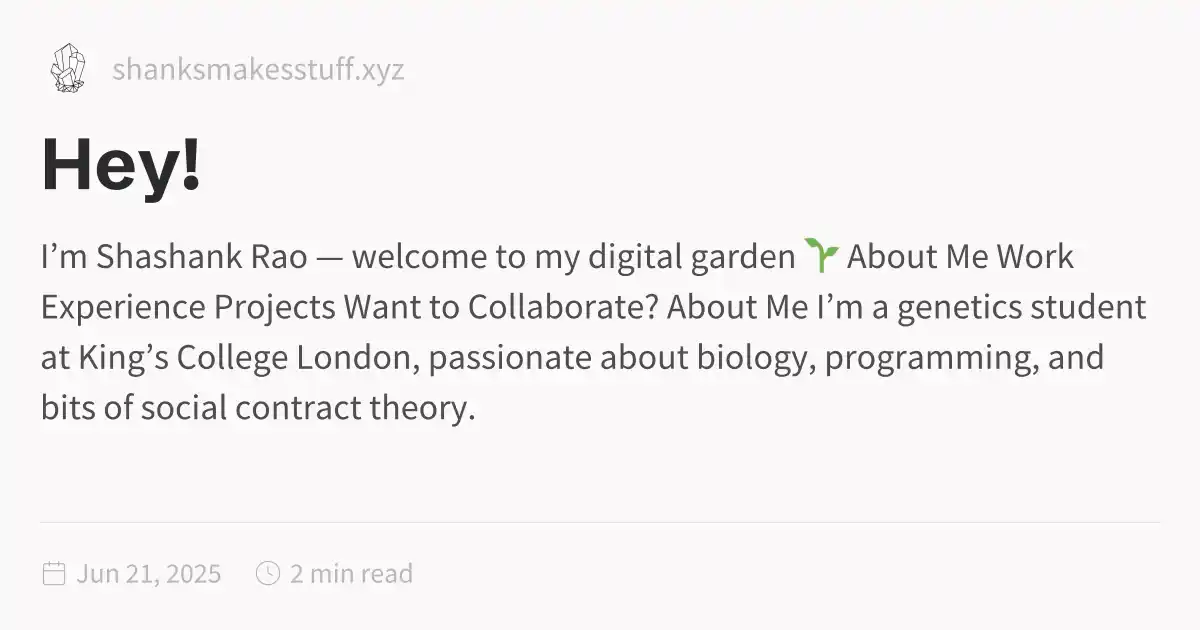
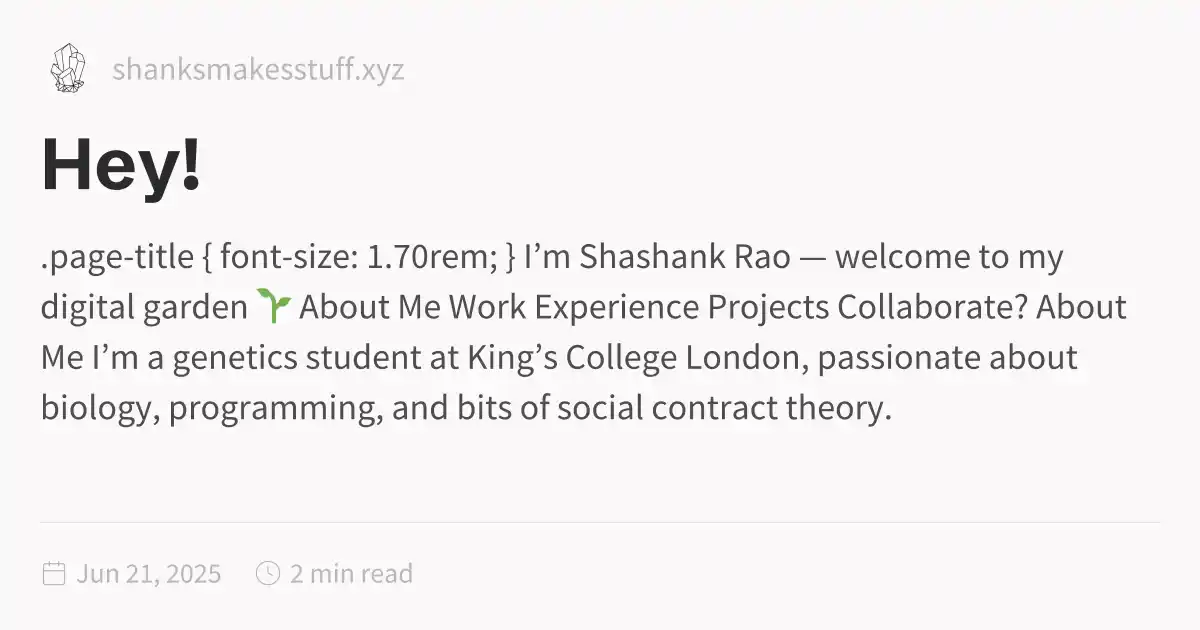
2025-06-21_1209

Changed region(s): [[0.0308, 0.3619, 0.9558, 0.5127], [0.0308, 0.5429, 0.925, 0.6032], [0.0617, 0.6333, 0.74, 0.6937]]

diff --git a/Hey!.html b/Hey!.html
@@ -1,5 +1,5 @@
 <!DOCTYPE html>
-<html lang="en"><head><title>Hey!</title><meta charset="utf-8"/><link rel="preconnect" href="https://fonts.googleapis.com"/><link rel="preconnect" href="https://fonts.gstatic.com"/><link rel="stylesheet" href="https://fonts.googleapis.com/css2?family=Schibsted Grotesk:wght@400;700&amp;family=Source Sans Pro:ital,wght@0,400;0,600;1,400;1,600&amp;family=IBM Plex Mono:wght@400;600&amp;display=swap"/><link rel="preconnect" href="https://cdnjs.cloudflare.com" crossorigin="anonymous"/><meta name="viewport" content="width=device-width, initial-scale=1.0"/><meta name="og:site_name" content="ShanksMakesStuff"/><meta property="og:title" content="Hey!"/><meta property="og:type" content="website"/><meta name="twitter:card" content="summary_large_image"/><meta name="twitter:title" content="Hey!"/><meta name="twitter:description" content="I’m Shashank Rao — welcome to my digital garden 🌱 About Me Work Experience Projects Want to Collaborate? About Me I’m a genetics student at King’s College London, passionate about biology, programming, and bits of social contract theory."/><meta property="og:description" content="I’m Shashank Rao — welcome to my digital garden 🌱 About Me Work Experience Projects Want to Collaborate? About Me I’m a genetics student at King’s College London, passionate about biology, programming, and bits of social contract theory."/><meta property="og:image:alt" content="I’m Shashank Rao — welcome to my digital garden 🌱 About Me Work Experience Projects Want to Collaborate? About Me I’m a genetics student at King’s College London, passionate about biology, programming, and bits of social contract theory."/><meta property="twitter:domain" content="shanksmakesstuff.xyz"/><meta property="og:url" content="https://shanksmakesstuff.xyz/Hey!"/><meta property="twitter:url" content="https://shanksmakesstuff.xyz/Hey!"/><link rel="icon" href="./static/icon.png"/><meta name="description" content="I’m Shashank Rao — welcome to my digital garden 🌱 About Me Work Experience Projects Want to Collaborate? About Me I’m a genetics student at King’s College London, passionate about biology, programming, and bits of social contract theory."/><meta name="generator" content="Quartz"/><link href="./index.css" rel="stylesheet" type="text/css" spa-preserve/><style>.expand-button {
+<html lang="en"><head><title>Hey!</title><meta charset="utf-8"/><link rel="preconnect" href="https://fonts.googleapis.com"/><link rel="preconnect" href="https://fonts.gstatic.com"/><link rel="stylesheet" href="https://fonts.googleapis.com/css2?family=Schibsted Grotesk:wght@400;700&amp;family=Source Sans Pro:ital,wght@0,400;0,600;1,400;1,600&amp;family=IBM Plex Mono:wght@400;600&amp;display=swap"/><link rel="preconnect" href="https://cdnjs.cloudflare.com" crossorigin="anonymous"/><meta name="viewport" content="width=device-width, initial-scale=1.0"/><meta name="og:site_name" content="ShanksMakesStuff"/><meta property="og:title" content="Hey!"/><meta property="og:type" content="website"/><meta name="twitter:card" content="summary_large_image"/><meta name="twitter:title" content="Hey!"/><meta name="twitter:description" content=".page-title { font-size: 1.70rem; } I’m Shashank Rao — welcome to my digital garden 🌱 About Me Work Experience Projects Collaborate? About Me I’m a genetics student at King’s College London, passionate about biology, programming, and bits of social contract theory."/><meta property="og:description" content=".page-title { font-size: 1.70rem; } I’m Shashank Rao — welcome to my digital garden 🌱 About Me Work Experience Projects Collaborate? About Me I’m a genetics student at King’s College London, passionate about biology, programming, and bits of social contract theory."/><meta property="og:image:alt" content=".page-title { font-size: 1.70rem; } I’m Shashank Rao — welcome to my digital garden 🌱 About Me Work Experience Projects Collaborate? About Me I’m a genetics student at King’s College London, passionate about biology, programming, and bits of social contract theory."/><meta property="twitter:domain" content="shanksmakesstuff.xyz"/><meta property="og:url" content="https://shanksmakesstuff.xyz/Hey!"/><meta property="twitter:url" content="https://shanksmakesstuff.xyz/Hey!"/><link rel="icon" href="./static/icon.png"/><meta name="description" content=".page-title { font-size: 1.70rem; } I’m Shashank Rao — welcome to my digital garden 🌱 About Me Work Experience Projects Collaborate? About Me I’m a genetics student at King’s College London, passionate about biology, programming, and bits of social contract theory."/><meta name="generator" content="Quartz"/><link href="./index.css" rel="stylesheet" type="text/css" spa-preserve/><style>.expand-button {
   position: absolute;
   display: flex;
   float: right;
@@ -116,8 +116,24 @@ pre:hover > .expand-button {
   padding: 0 12px;
   font-size: 14px;
 }
[1 lines of base64/hex data omitted]
-<p><a href="#about-me" class="internal alias">About Me</a> <a href="#work-experience" class="internal alias">Work Experience</a> <a href="#projects" class="internal alias">Projects</a> <a href="#want-to-collaborate" class="internal alias">Want to Collaborate?</a></p>
[1 lines of base64/hex data omitted]
+	<style> 
+		.page-title { 
+			font-size: 1.70rem; 
+		}
+	</style> 
+ 
+<p>I’m <strong>Shashank Rao</strong> — welcome to my digital garden 🌱</p>
+<hr/>
+ 
+	<div style="display:flex;justify-content:space-evenly;"> 
+		<a href="https://www.shanksmakesstuff.xyz/Hey!#about-me" class="external">About Me<svg aria-hidden="true" class="external-icon" style="max-width:0.8em;max-height:0.8em;" viewBox="0 0 512 512"><path d="M320 0H288V64h32 82.7L201.4 265.4 178.7 288 224 333.3l22.6-22.6L448 109.3V192v32h64V192 32 0H480 320zM32 32H0V64 480v32H32 456h32V480 352 320H424v32 96H64V96h96 32V32H160 32z"></path></svg></a>
+		<a href="https://www.shanksmakesstuff.xyz/Hey!#work-experience" class="external">Work Experience<svg aria-hidden="true" class="external-icon" style="max-width:0.8em;max-height:0.8em;" viewBox="0 0 512 512"><path d="M320 0H288V64h32 82.7L201.4 265.4 178.7 288 224 333.3l22.6-22.6L448 109.3V192v32h64V192 32 0H480 320zM32 32H0V64 480v32H32 456h32V480 352 320H424v32 96H64V96h96 32V32H160 32z"></path></svg></a>
+		<a href="https://www.shanksmakesstuff.xyz/Hey!#projects" class="external">Projects<svg aria-hidden="true" class="external-icon" style="max-width:0.8em;max-height:0.8em;" viewBox="0 0 512 512"><path d="M320 0H288V64h32 82.7L201.4 265.4 178.7 288 224 333.3l22.6-22.6L448 109.3V192v32h64V192 32 0H480 320zM32 32H0V64 480v32H32 456h32V480 352 320H424v32 96H64V96h96 32V32H160 32z"></path></svg></a>
+		<a href="https://www.shanksmakesstuff.xyz/Hey!#want-to-collaborate" class="external">Collaborate?<svg aria-hidden="true" class="external-icon" style="max-width:0.8em;max-height:0.8em;" viewBox="0 0 512 512"><path d="M320 0H288V64h32 82.7L201.4 265.4 178.7 288 224 333.3l22.6-22.6L448 109.3V192v32h64V192 32 0H480 320zM32 32H0V64 480v32H32 456h32V480 352 320H424v32 96H64V96h96 32V32H160 32z"></path></svg></a>
+	</div> 
+ 
+<hr/>
 <h2 id="about-me">About Me<a role="anchor" aria-hidden="true" tabindex="-1" data-no-popover="true" href="#about-me" class="internal"><svg width="18" height="18" viewBox="0 0 24 24" fill="none" stroke="currentColor" stroke-width="2" stroke-linecap="round" stroke-linejoin="round"><path d="M10 13a5 5 0 0 0 7.54.54l3-3a5 5 0 0 0-7.07-7.07l-1.72 1.71"></path><path d="M14 11a5 5 0 0 0-7.54-.54l-3 3a5 5 0 0 0 7.07 7.07l1.71-1.71"></path></svg></a></h2>
 <p>I’m a genetics student at <a href="https://www.kcl.ac.uk/" class="external">King’s College London<svg aria-hidden="true" class="external-icon" style="max-width:0.8em;max-height:0.8em;" viewBox="0 0 512 512"><path d="M320 0H288V64h32 82.7L201.4 265.4 178.7 288 224 333.3l22.6-22.6L448 109.3V192v32h64V192 32 0H480 320zM32 32H0V64 480v32H32 456h32V480 352 320H424v32 96H64V96h96 32V32H160 32z"></path></svg></a>, passionate about biology, programming, and bits of social contract theory.<br/>
 I love combining disciplines, whether it’s using code to explore genetics or using philosophy to understand society.</p>
